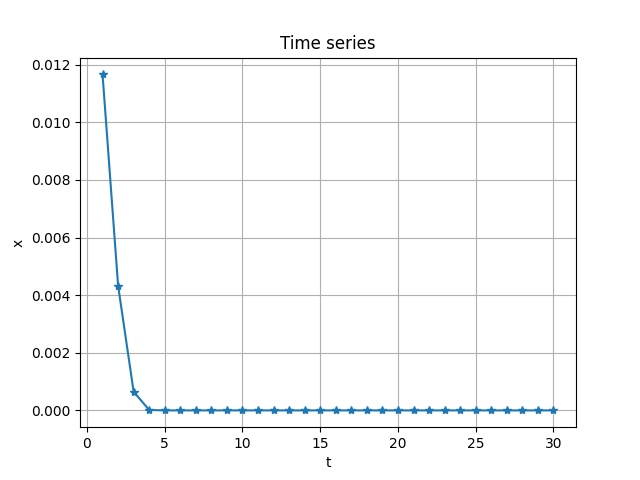
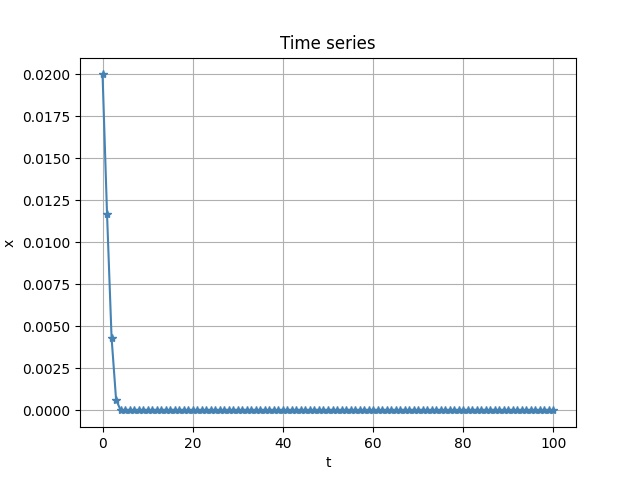
Upd

diff --git a/latex/content.tex b/latex/content.tex
@@ -19,24 +19,24 @@
 
         \[\alpha x = (\beta + x)^6\]
 
-        Теперь можно построить графики функций \(y = \alpha x\) и \(y = (\beta + x)^6\). В зависимости от значений параметра \(\beta\) уравнение может иметь ноль, одну или две общие точки. На рисунках (\ref{mainTouch}), (\ref{mainIntersect}), (\ref{mainOver}) можно увидеть все возможные варианты.
-
-        \begin{figure}
-            \centering
-            \includegraphics[width=\textwidth]{images/main_touch.jpg}
-
-            \captionsetup{justification=centering}
-            \caption{Синяя линия --- \(\frac{\alpha x^2}{(\beta + x)^6}\); Зеленая линия --- \(\frac{\alpha x^2}{(\beta + x)^6}; \beta \approx 0.582355932\). Два корня}
-            \label{mainTouch}
-        \end{figure}
+        Теперь можно построить графики функций \(y = \alpha x\) и \(y = (\beta + x)^6\). В зависимости от значений параметра \(\beta\) уравнение может иметь ноль, одну или две общие точки. На рисунках (\ref{mainIntersect}), (\ref{mainTouch}), (\ref{mainOver}) можно увидеть все возможные варианты.
         
         \begin{figure}
             \centering
             \includegraphics[width=\textwidth]{images/main_intersect.jpg}
 
             \captionsetup{justification=centering}
-            \caption{Синяя линия --- \(\frac{\alpha x^2}{(\beta + x)^6}\); Зеленая линия --- \(\frac{\alpha x^2}{(\beta + x)^6}; \beta < 0.582355932\). Три корня}
+            \caption{\(\beta < 0.582355932\)}
             \label{mainIntersect}
+        \end{figure}
+
+        \begin{figure}
+            \centering
+            \includegraphics[width=\textwidth]{images/main_touch.jpg}
+
+            \captionsetup{justification=centering}
+            \caption{\(\beta \approx 0.582355932\)}
+            \label{mainTouch}
         \end{figure}
 
         \begin{figure}
@@ -44,11 +44,17 @@
             \includegraphics[width=\textwidth]{images/main_over.jpg}
 
             \captionsetup{justification=centering}
-            \caption{Синяя линия --- \(\frac{\alpha x^2}{(\beta + x)^6}\); Зеленая линия --- \(\frac{\alpha x^2}{(\beta + x)^6}; \beta > 0.582355932\). Три корня}
+            \caption{\(\beta > 0.582355932\)}
             \label{mainOver}
         \end{figure}
 
+        Аналитически это уравнение не решается. Для нахождения корней я буду использовать метод Ньютона. В зависимости от конкретных значений параметра \(\beta\) данное уравнение может иметь от одного до трех корней.
+
     \subsection{Временные ряды}
+
+        Для анализа системы можно использовать временные ряды. Временной ряд позволяет наглядно показать как с течением времени изменяется численность популяции.
+
+        Например, на графике (\ref{timeSeriesX=0.02b=0.55}) мы видим, что при начальных значениях \(x = 0.02\) и \(\beta = 0.55\) временной ряд сходятся к нулю. В биологическом смысле это означает, что популяция с теченеим времени вымирает.
     
         \begin{figure}[h!]
             \centering
@@ -58,6 +64,10 @@
             \caption{\(x_0 = 0.02; \beta = 0.55\)}
             \label{timeSeriesX=0.02b=0.55}
         \end{figure}
+
+        На графике (\ref{timeSeriesX=0.05b=0.48}) видно, что при начальных условиях \(x = 0.05, \beta = 0.48\) популяция очень быстро растет до некоторого предела. После достижения данного предела начинается процесс стабилизации, т.е. значения стремятся к устойчивому равновесию \(x \approx 0.3656\). Это значит, что популяция с течением времени стабилизируется и перестанет расти или вымирать.
+
+        Аналогичную ситуацию мы можем наблюдать на графике (\ref{timeSeriesX=0.05b=0.55}).
     
         \begin{figure}[h!]
             \centering
@@ -76,30 +86,11 @@
             \caption{\(x_0 = 0.05; \beta = 0.55\)}
             \label{timeSeriesX=0.05b=0.55}
         \end{figure}
-    
-        \begin{figure}[h!]
-            \centering
-            \includegraphics[width=0.8\textwidth]{Time_series._x_2.1_b_0.48.jpeg}
 
-            \captionsetup{justification=centering}
-            \caption{\(x_0 = 2.1; \beta = 0.48\)}
-            \label{timeSeriesX=2.1b=0.48}
-        \end{figure}
+    \subsection{График бифуркации}
 
-        \par\noindent\rule{\textwidth}{1pt}
+    \subsection{Лестница Ламери}
 
-        Аналитически это уравнение не решается. Для нахождения корней будем использовать метод Ньютона.
+    \subsection{Показатели Ляпунова}
 
-        В зависимости от конкретных значений параметра \(\beta\) данное уравнение может иметь от одного до трех корней.
-    
-        *графики какие-нибудь*
-
-        Для того, чтобы найти корни с помощью метода Ньютона рассмотрим уравнение 
-    
-        \[x - \frac{\alpha x^2}{(\beta + x)^6} = 0\]
-
-        При \(\beta \approx 0.582355932\) уравнение имеет два корня: \(x_0 = 0\) и \(\bar{x}_1 \approx 0.116471186636\). При \(\beta < 0.582355932\) - три корня,а при \(\beta > 0.582355932\) - один корень \(x_0 = 0\).
-    
-        Корень являются точками равновесия.
-
-        Можно построить временные ряды.
+    \subsection{Недоделанная карта режимов}

diff --git a/grpah/main.py b/grpah/main.py
@@ -12,19 +12,19 @@ from plotter import Plotter
 
 if __name__ == "__main__":
 
-    # source = time_series(
-    #     time_range=range(1, 100 + 1),
-    #     x_start=2.1,
-    #     b=0.48,
-    #     a=1,
-    #     f=Functions.f,
-    #     skip=False
-    # )
-    #
-    # plotter = Plotter()
-    # plotter.setup('t', 'x', 'linear', 'major', 'Time series')
-    # plotter.plot(source[0], source[1], '*', 'steelblue')
-    # plotter.show(False)
+    source = time_series(
+        time_range=range(1, 100 + 1),
+        x_start=0.05,
+        b=0.48,
+        a=1,
+        f=Functions.f,
+        skip=False
+    )
+
+    plotter = Plotter()
+    plotter.setup('t', 'x', 'linear', 'major', 'Time series')
+    plotter.plot(source[0], source[1], '*', 'steelblue')
+    plotter.show(False)
 
     # source = bifurcation(
     #     time_range=range(1, 100 + 1),
@@ -39,22 +39,22 @@ if __name__ == "__main__":
     # plotter.scatter(source[0], source[1], '.', 'steelblue')
     # plotter.show(False)
 
-    source = Builder.bifurcation_with_c(
-        time_range=range(1, 100 + 1),
-        x_start=0.2,
-        b_range=np.arange(0.22, 0.582355932, 0.001),
-        a=1,
-        left=0,
-        right=1,
-        step=0.0001
-    )
-
-    plotter = Plotter()
-    plotter.setup('b', 'x', 'log', 'major', 'Bifurcation')
-    plotter.scatter(source[0][0], source[0][1], '.', 'steelblue')
-    plotter.plot(source[1][0], source[1][1], ',', 'red')
-    plotter.plot(source[2][0], source[2][1], ',', 'red')
-    plotter.show(False)
+    # source = Builder.bifurcation_with_c(
+    #     time_range=range(1, 100 + 1),
+    #     x_start=0.2,
+    #     b_range=np.arange(0.22, 0.582355932, 0.001),
+    #     a=1,
+    #     left=0,
+    #     right=1,
+    #     step=0.0001
+    # )
+    #
+    # plotter = Plotter()
+    # plotter.setup('b', 'x', 'log', 'major', 'Bifurcation')
+    # plotter.scatter(source[0][0], source[0][1], '.', 'steelblue')
+    # plotter.plot(source[1][0], source[1][1], ',', 'red')
+    # plotter.plot(source[2][0], source[2][1], ',', 'red')
+    # plotter.show(False)
 
     '''
     source = lyapunov.Lyapunov.calc(

diff --git a/grpah/new/builder/time_series.py b/grpah/new/builder/time_series.py
@@ -3,7 +3,7 @@ def time_series(time_range, x_start, b, a, f, skip):
     x_arr = dict()
 
     # x_0 возможно эта точка лишняя
-    x_arr[b] = []
+    x_arr[b] = [x_start]
     x_0 = x_start
     if skip:
         for t in time_range:
@@ -13,5 +13,8 @@ def time_series(time_range, x_start, b, a, f, skip):
         x_t = f(a, b, x_0)
         x_0 = x_t
         x_arr[b].append(x_t)
+
+    time_range = list(time_range)
+    time_range.insert(0, 0)
 
     return time_range, x_arr[b]
